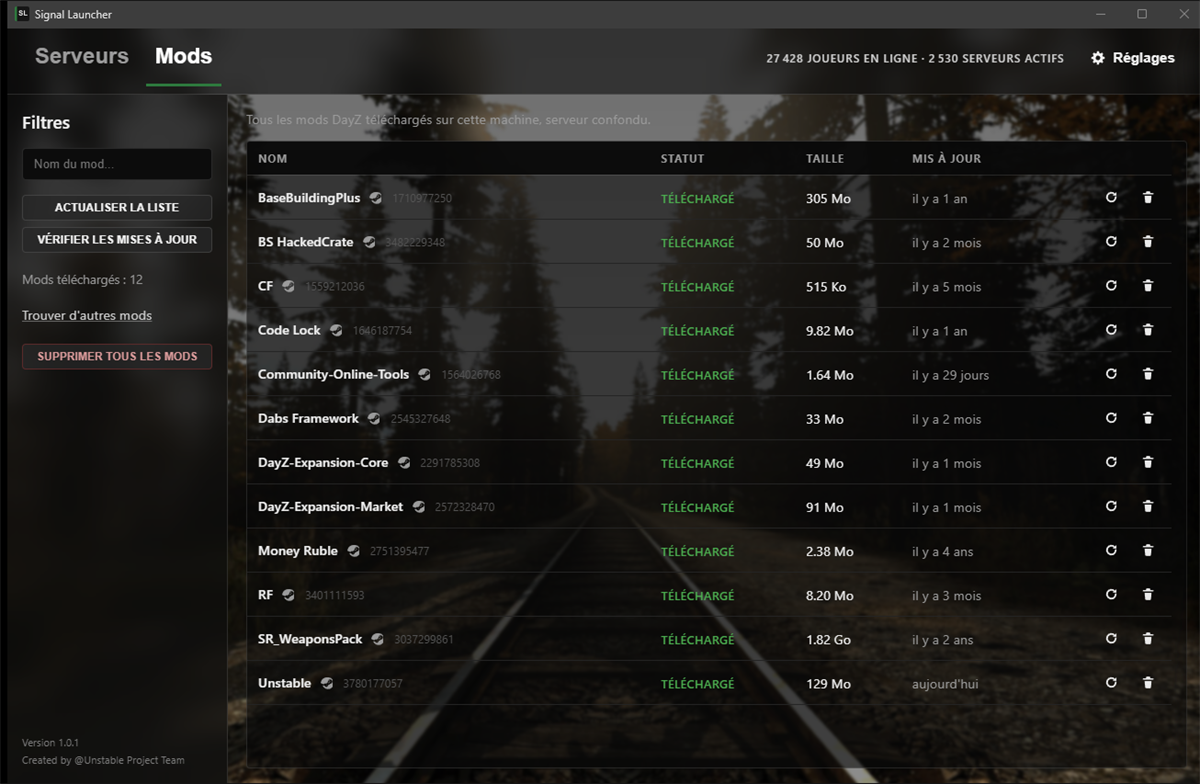
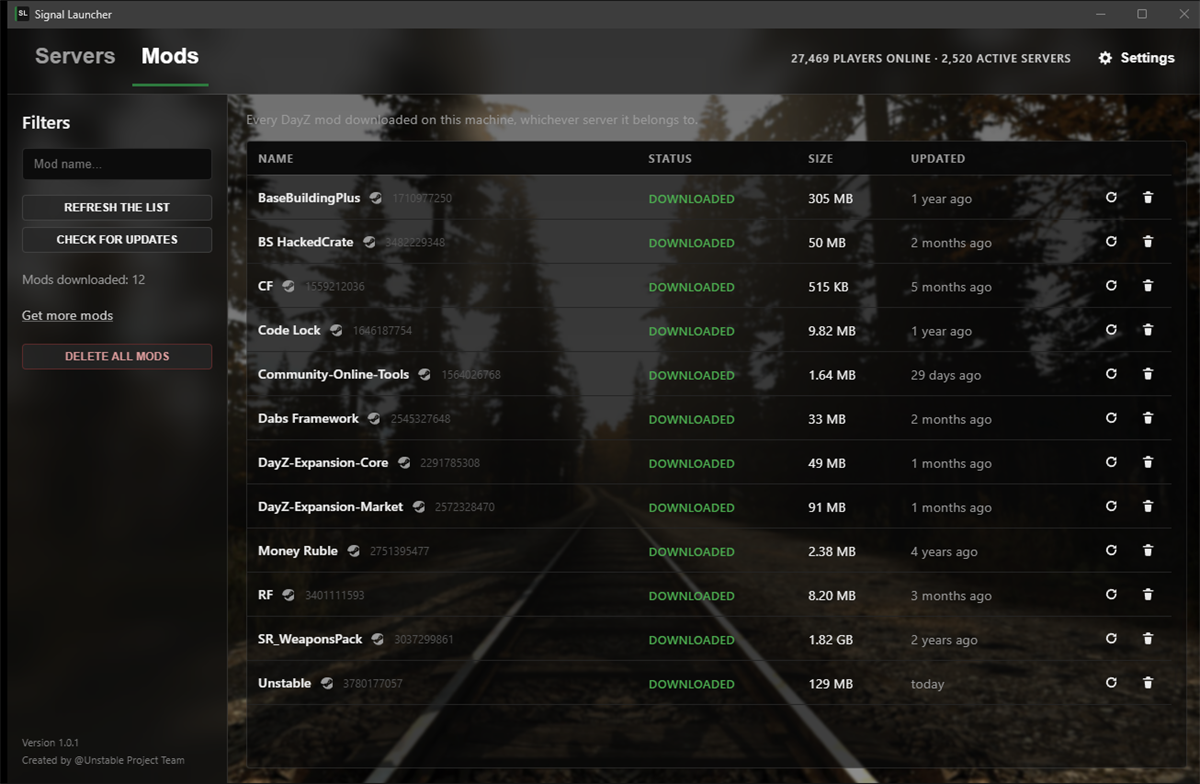
Show the launcher in English on an English page
The screenshots were taken with the interface in French, which sat
oddly on a page written in English. The language was switched through
the settings file, the three screens recaptured, and the setting put
back as it was.

Files renamed to match: serveurs and reglages become servers and
settings.

The in-game name is masked and no server appears favourited, as before.

diff --git a/README.md b/README.md
@@ -20,7 +20,7 @@ Browse community servers, click PLAY, and let it handle the rest.
 
 <br>
 
-![Server list](assets/serveurs.png)
+![Server list](assets/servers.png)
 
 <br>
 
@@ -48,7 +48,7 @@ restart.
 <table>
 <tr>
 <td width="50%"><img src="assets/mods.png" alt="Mods tab"></td>
-<td width="50%"><img src="assets/reglages.png" alt="Settings"></td>
+<td width="50%"><img src="assets/settings.png" alt="Settings"></td>
 </tr>
 <tr>
 <td align="center"><em>Every mod on your machine, its size and its date</em></td>
@@ -56,7 +56,6 @@ restart.
 </tr>
 </table>
 
-<sub>Screenshots taken with the interface in French — English and Russian ship with it.</sub>
 
 <br>
 
